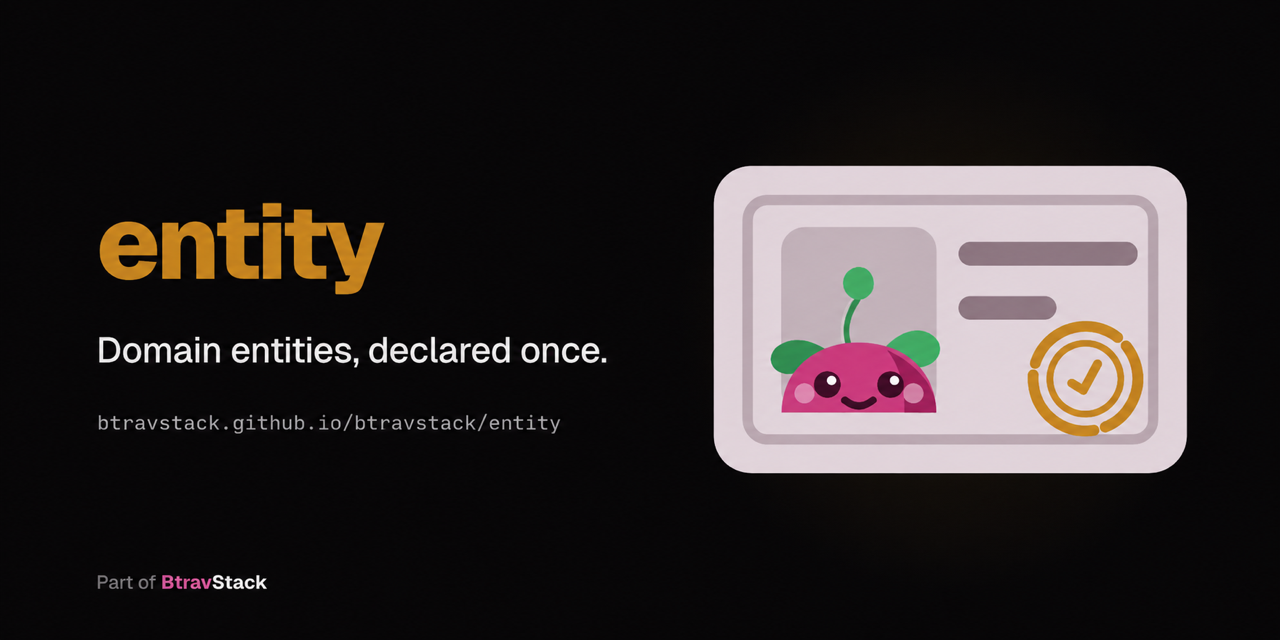
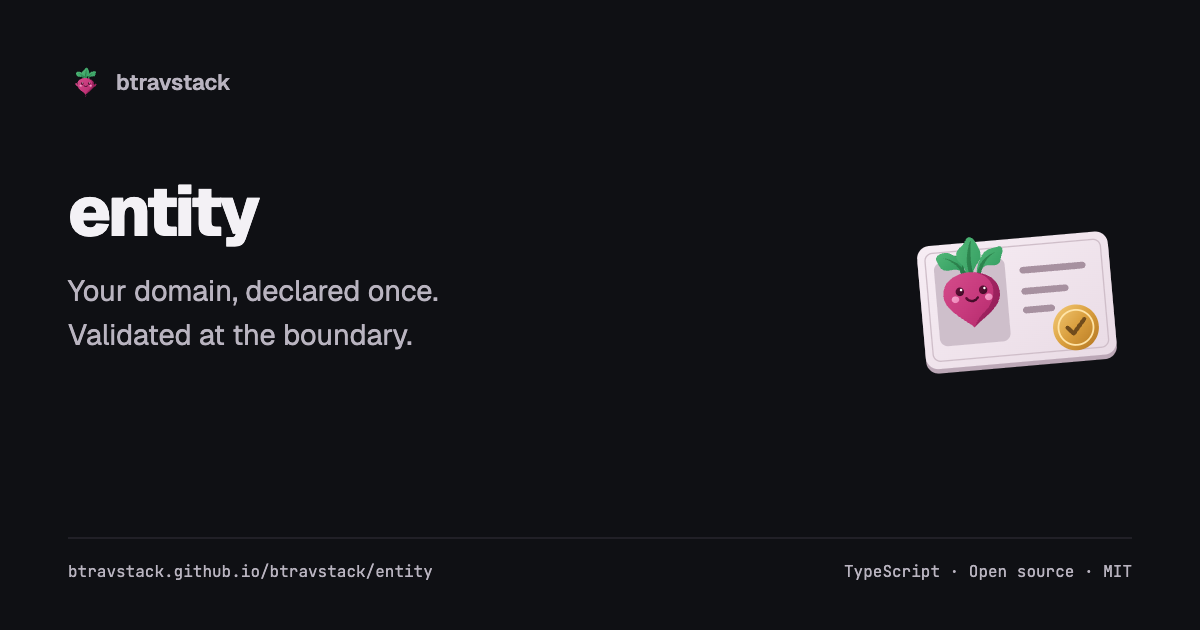
docs: align integrated entity illustrations

diff --git a/docs/.vitepress/config.ts b/docs/.vitepress/config.ts
@@ -343,13 +343,13 @@ export default defineConfig({
       pageData.relativePath.startsWith("api/entity/");
     const image = `${SITE_URL}${isEntity ? "entity/og-entity-btravstack.png" : "og-btravstack.png"}`;
     const imageAlt = isEntity
-      ? "entity — a domain-entity builder for TypeScript, with the beetroot glyph."
+      ? "entity — Your domain, declared once. Validated at the boundary. Identity card with a smiling beetroot portrait."
       : "btravstack — Your application, composed. Your process, taken care of. Smiling beetroot mascot on three teal layers.";
     pageData.frontmatter.head.push(
       ["meta", { property: "og:image", content: image }],
       ["meta", { property: "og:image:type", content: "image/png" }],
-      ["meta", { property: "og:image:width", content: isEntity ? "1280" : "1200" }],
-      ["meta", { property: "og:image:height", content: isEntity ? "640" : "630" }],
+      ["meta", { property: "og:image:width", content: "1200" }],
+      ["meta", { property: "og:image:height", content: "630" }],
       ["meta", { property: "og:image:alt", content: imageAlt }],
       ["meta", { name: "twitter:card", content: "summary_large_image" }],
       ["meta", { name: "twitter:image", content: image }],

diff --git a/docs/branding/social-card.html b/docs/branding/social-card.html
@@ -24,13 +24,16 @@
     <footer><span class="url"></span><span>TypeScript · Open source · MIT</span></footer>
   </main>
   <script>
-    const cards = { framework: ['btravstack', 'Your application, composed.<br>Your process, taken care of.', 'btravstack.github.io/btravstack'] };
+    const cards = {
+      framework: ['btravstack', 'Your application, composed.<br>Your process, taken care of.', 'btravstack.github.io/btravstack'],
+      entity: ['entity', 'Your domain, declared once.<br>Validated at the boundary.', 'btravstack.github.io/btravstack/entity'],
+    };
     const key = new URLSearchParams(location.search).get('project') || 'framework';
     const [name, description, url] = cards[key];
     document.querySelector('h1').textContent = name;
     document.querySelector('p').innerHTML = description;
     document.querySelector('.url').textContent = url;
-    document.querySelector('.mark').src = '../public/logo-dark.svg';
+    document.querySelector('.mark').src = key === 'entity' ? '../public/entity/logo-dark.svg' : '../public/logo-dark.svg';
     document.querySelector('.mark').alt = `${name} logo`;
   </script>
 </html>

diff --git a/docs/branding/README.md b/docs/branding/README.md
@@ -1,4 +1,4 @@
-# Framework identity
+# Framework and entity identity
 
 The framework keeps its approved illustrated mascot: a smiling beetroot atop
 three teal layers. The light/dark SVGs use native vector paths and gradients
@@ -11,3 +11,7 @@ Canonical source: [generate-brand.mjs](https://github.com/btravstack/btravstack.
 The coordinated social card comes from [social-card.html](https://github.com/btravstack/btravstack.github.io/blob/main/branding/social-card.html?project=framework)
 and is rendered at 1200 × 630. These are committed local copies; the docs do not
 load logos from the ecosystem website at runtime.
+
+The integrated entity guide uses the canonical `entity` identity-card SVGs.
+Render `social-card.html?project=entity` at 1200 × 630 for its local preview;
+the card displays `btravstack.github.io/btravstack/entity`.

diff --git a/docs/AGENTS.md b/docs/AGENTS.md
@@ -166,6 +166,10 @@ URLs in Open Graph and Twitter metadata. Its local editable source is
 `branding/social-card.html`; wait for its fonts and images to load and capture
 at device scale factor 1. Logo provenance is in `branding/README.md`.
 
-Entity guide and API pages use `public/entity/og-entity-btravstack.png` at 1280 × 640;
+Entity guide and API pages use `public/entity/og-entity-btravstack.png` at 1200 × 630;
 `transformPageData` selects one image per page so the framework card does not
 compete with the entity card in social metadata.
+
+Entity uses the illustrated identity-card mark in `public/entity/logo*.svg`.
+Its preview is rendered from `branding/social-card.html?project=entity`,
+which displays the integrated `/btravstack/entity` documentation address.

diff --git a/docs/entity/index.md b/docs/entity/index.md
@@ -10,7 +10,7 @@ hero:
   image:
     light: /entity/logo-light.svg
     dark: /entity/logo-dark.svg
-    alt: entity
+    alt: entity identity card with a smiling beetroot portrait
   actions:
     - theme: brand
       text: Get Started
